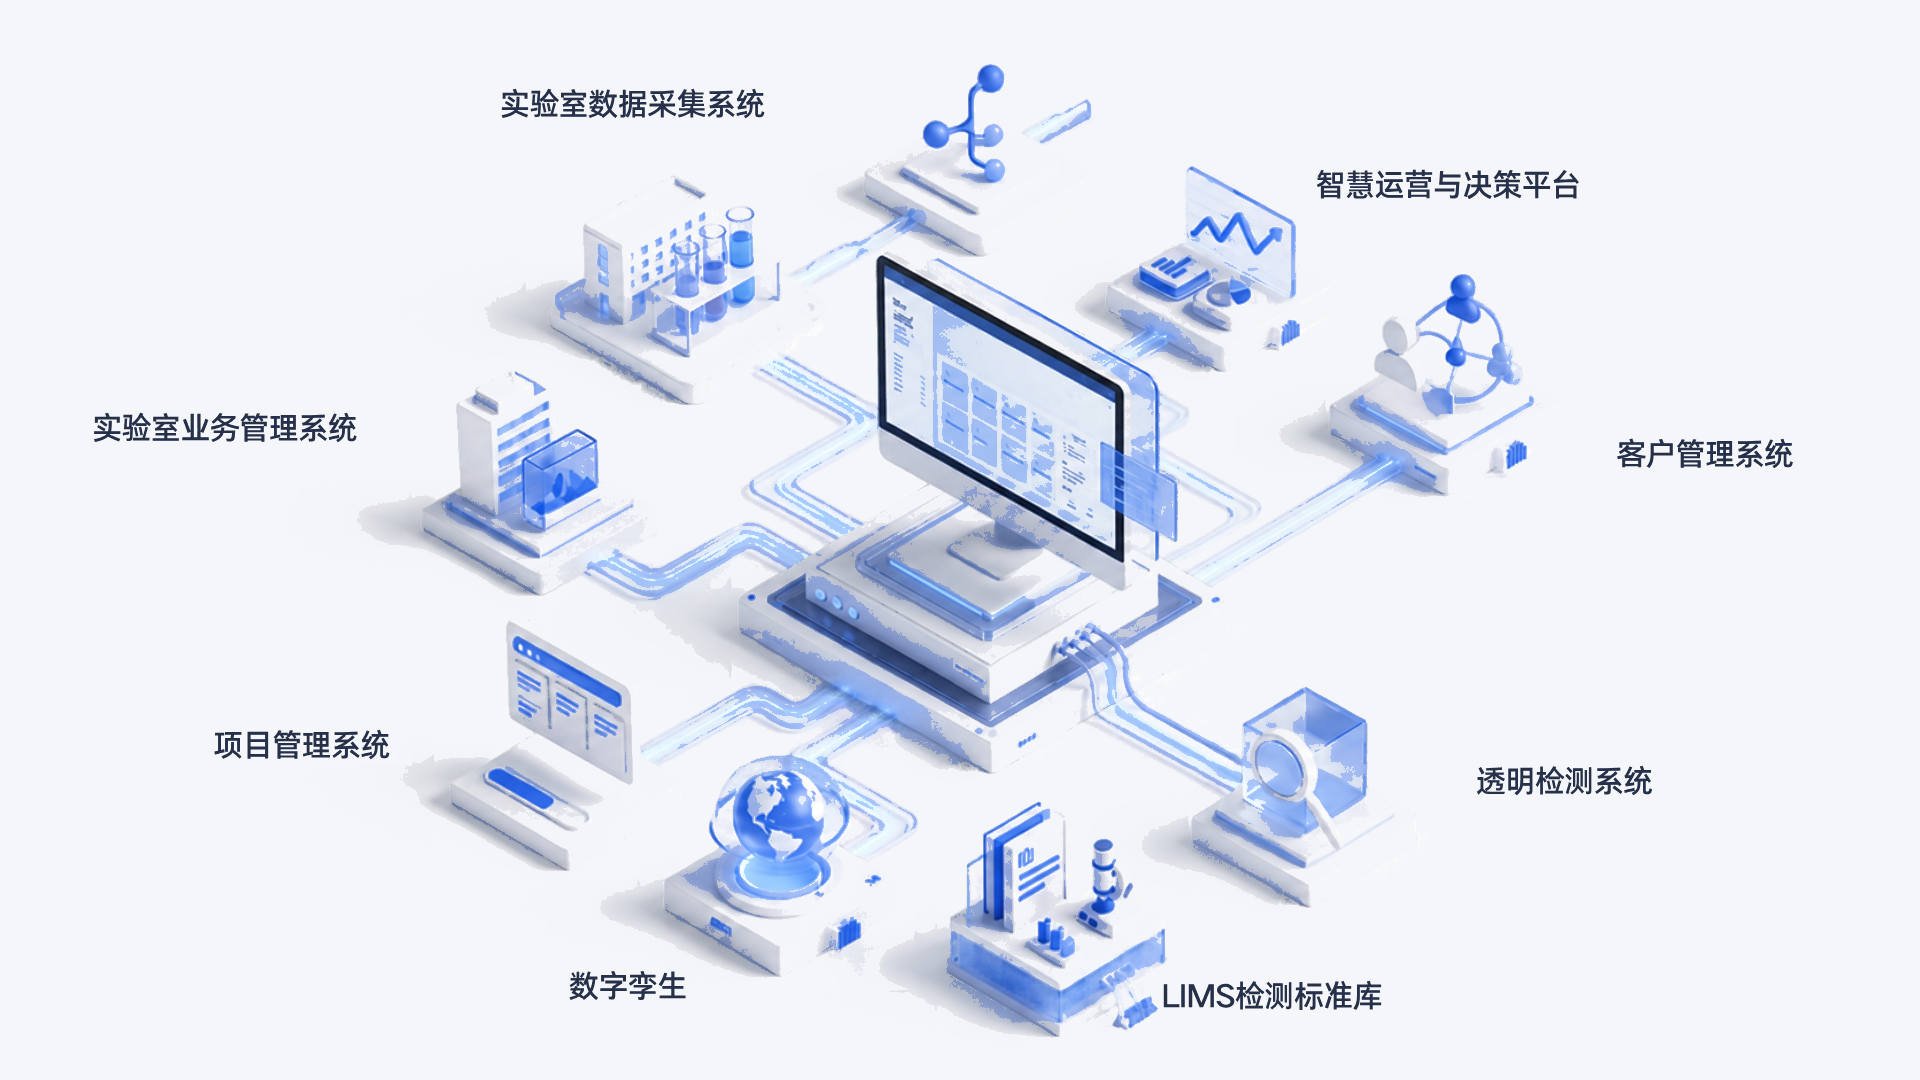
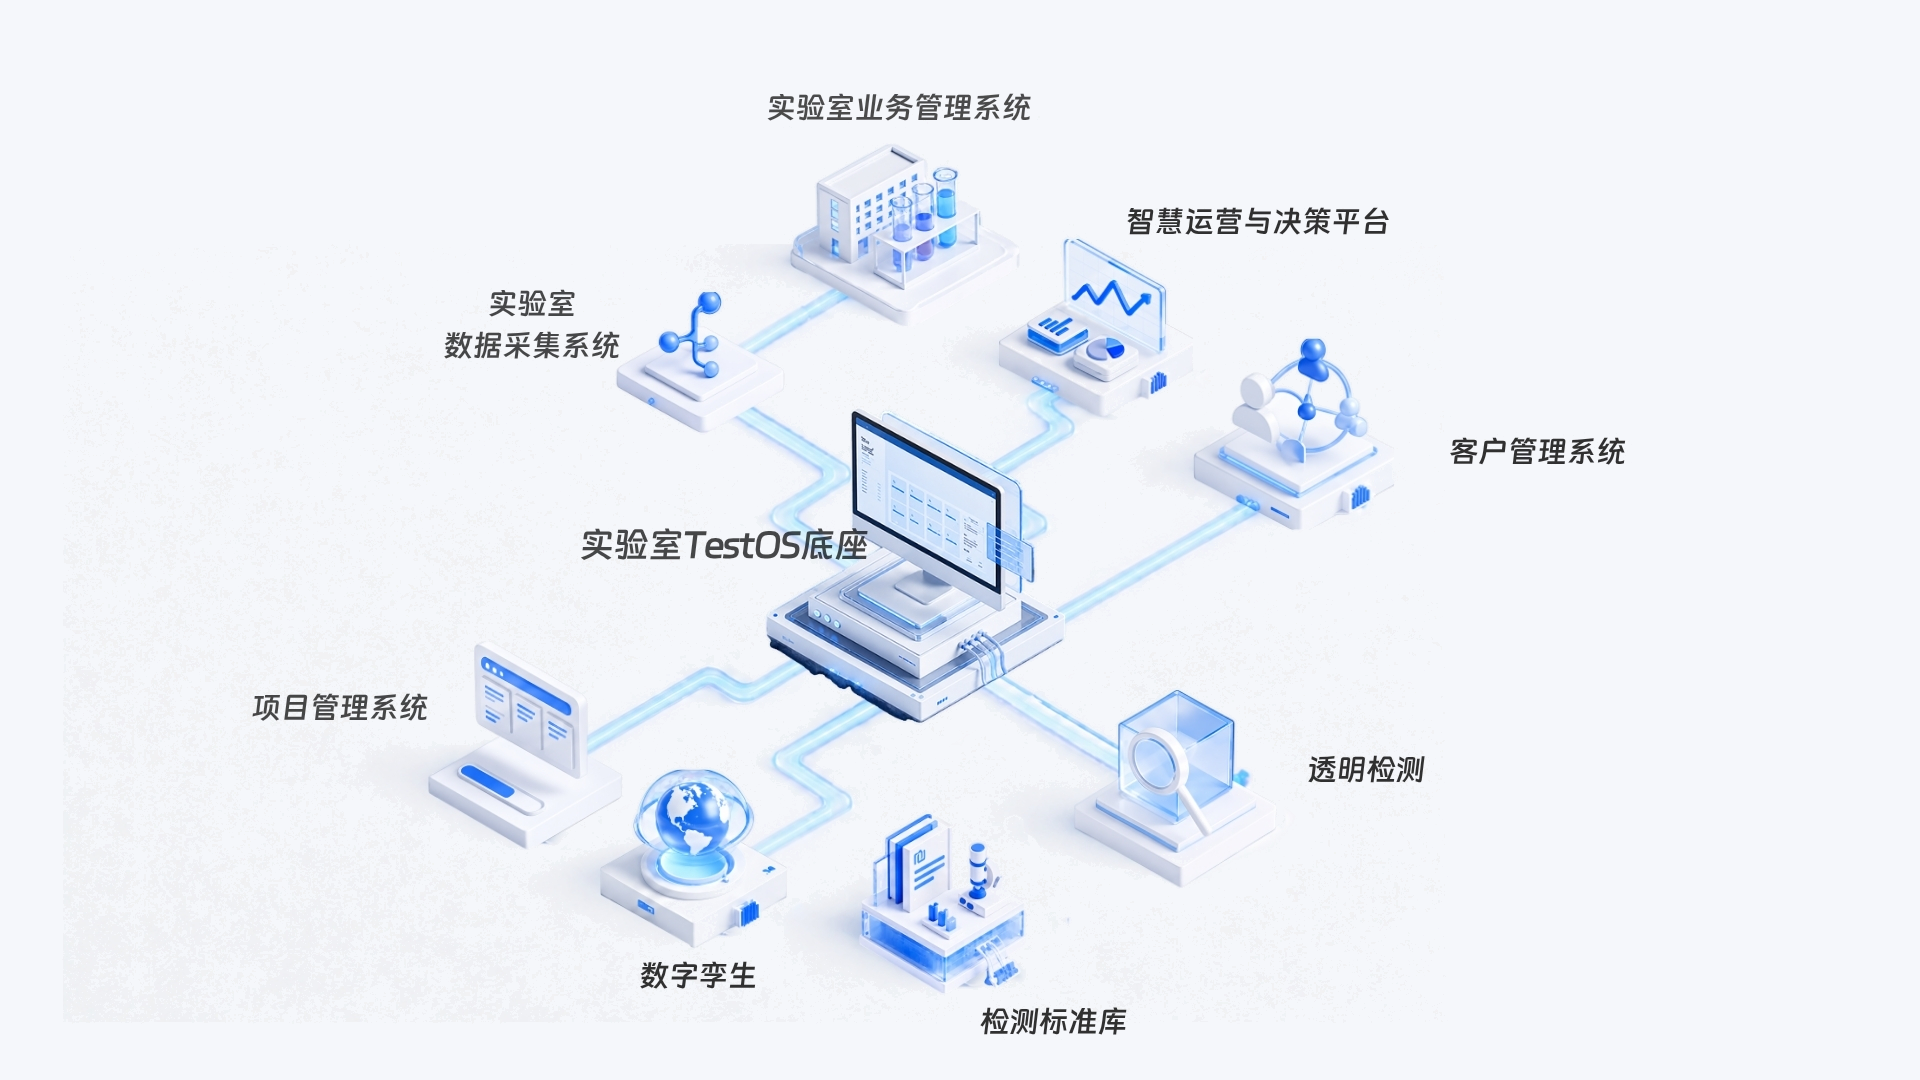
feat: 首页枢纽图换成带中文标注的 TestOS 总览

diff --git a/shucan-lims-brochure.html b/shucan-lims-brochure.html
@@ -392,7 +392,7 @@
         </ul>
       </div>
       <div class="visual">
-        <img class="illu" src="assets/brochure/00-hub.png?v=canva" alt="中央是发光的系统枢纽，屏幕展示数据界面。周围八个模块分别标注实验室数据采集系统、实验室业务管理系统、智慧运营与决策平台、客户管理系统、透明检测系统、LIMS检测标准库、数字孪生、项目管理系统。" />
+        <img class="illu" src="assets/brochure/00-hub.png?v=hub2" alt="中央屏幕标注实验室TestOS底座。周围八个模块分别标注实验室数据采集系统、实验室业务管理系统、智慧运营与决策平台、客户管理系统、透明检测、检测标准库、数字孪生、项目管理系统。" />
       </div>
     </section>
 
